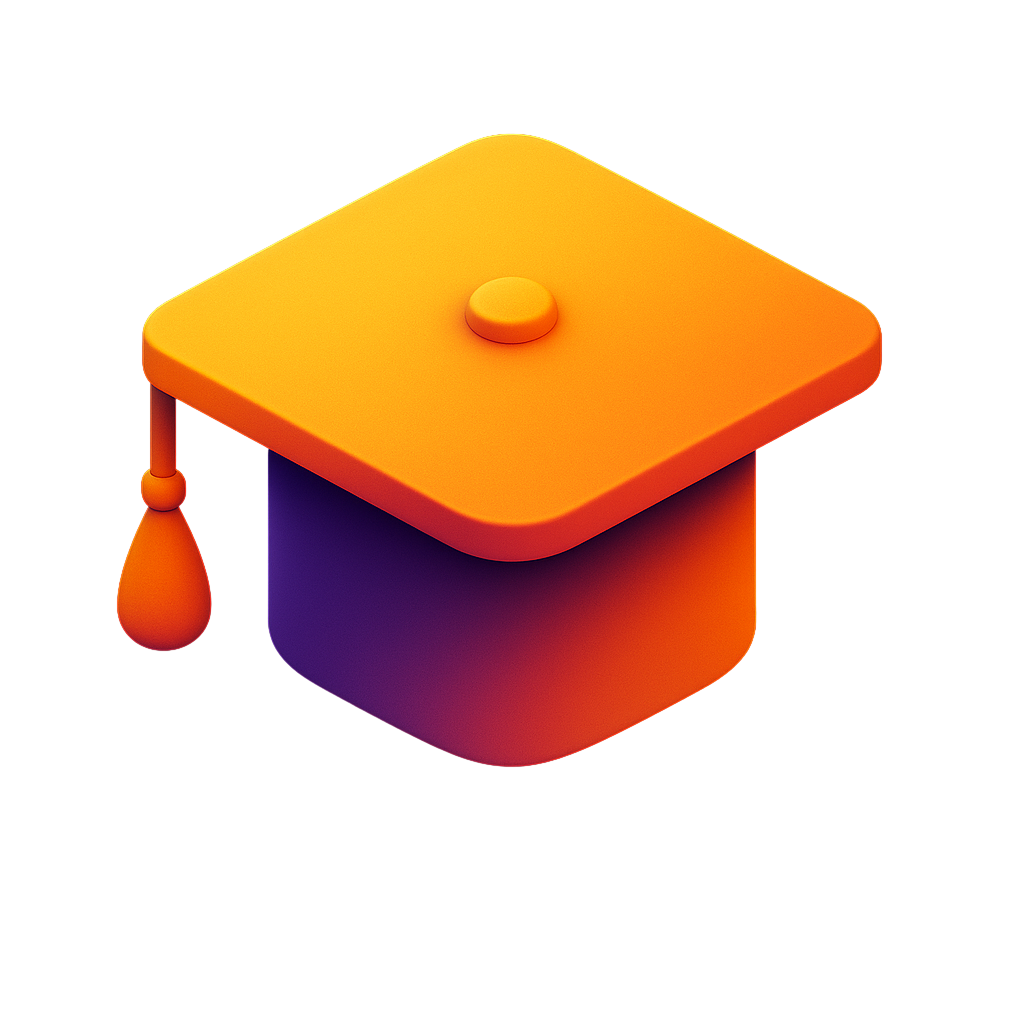
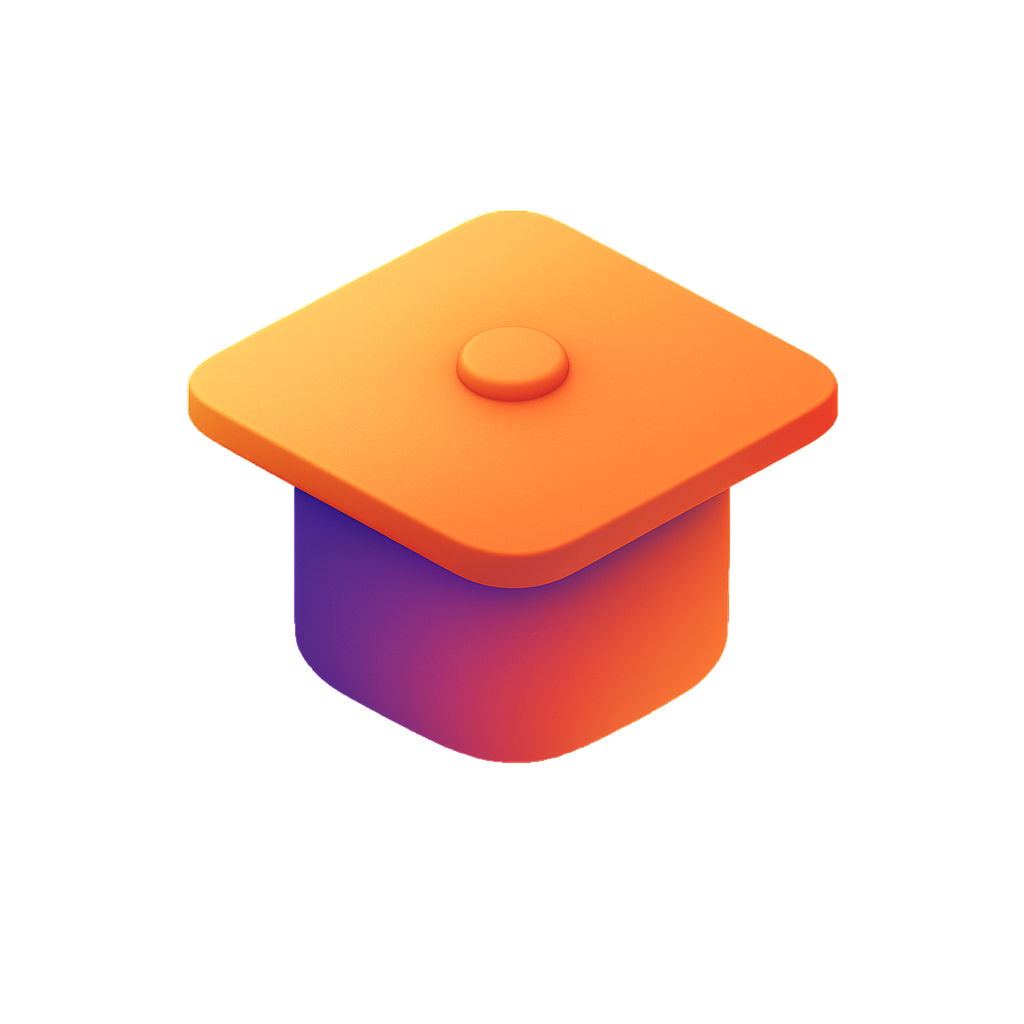
Update educational center modal image and add versioning

Changed region(s): [[0.0938, 0.125, 0.875, 0.75]]

diff --git a/src/shared/ui/ziplime-modal.tsx b/src/shared/ui/ziplime-modal.tsx
@@ -35,7 +35,7 @@ export const ZipLimeModal: React.FC<ZipLimeModalProps> = ({ isOpen, onClose }) =
         <div className="mt-[40px]">
           <div className="bg-[#2f2f37] rounded-[5px] p-[12px] w-full">
             <p className="text-[17px] font-medium text-white leading-[24px] tracking-[-0.17px] font-inter">
-              AI бектестер позволяющий легко проверять рыночные гипотезы
+              AI бектестер, позволяющий легко проверять рыночные гипотезы
             </p>
           </div>
         </div>

diff --git a/src/shared/ui/educational-center-modal.tsx b/src/shared/ui/educational-center-modal.tsx
@@ -17,7 +17,7 @@ export const EducationalCenterModal: React.FC<EducationalCenterModalProps> = ({ 
         <div className="flex justify-center pt-[48px]">
           <div className="w-[150px] h-[150px] relative flex-shrink-0">
             <img
-              src="/assets/products/uchebniychenter.png"
+              src="/assets/products/uchebniychenter.png?v=2"
               alt="Учебный Центр"
               className="w-full h-full object-contain rounded-lg"
             />

diff --git a/src/widgets/map-page/ui/map-page.tsx b/src/widgets/map-page/ui/map-page.tsx
@@ -207,7 +207,7 @@ export const MapPage: React.FC = () => {
             onClick={() => setQRScanner(true)}
             className="absolute flex justify-center items-center rounded-[8px] text-center font-inter text-[17px] font-semibold leading-[24px] tracking-[-0.204px] text-white z-40 mb-24"
             style={{ 
-              top: 682, 
+              top: 665, 
               left: 20, 
               width: 353, 
               padding: '16px 24px',

diff --git a/src/features/curator-contacts/ui/curator-contacts.tsx b/src/features/curator-contacts/ui/curator-contacts.tsx
@@ -50,7 +50,7 @@ export const CuratorContacts: React.FC = () => {
       >
         Твой куратор - Тимур Солдатенков
         <br />
-        Project Manager в ФГ "Финам"
+        Project Manager в "Финаме"
       </p>
       <button
         onClick={handleTelegramClick}
